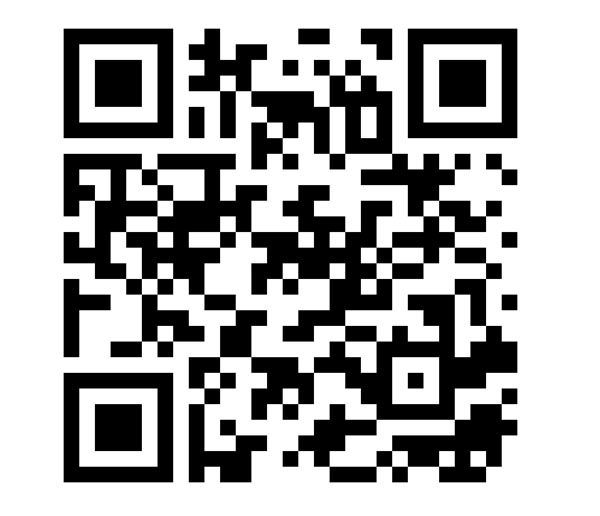
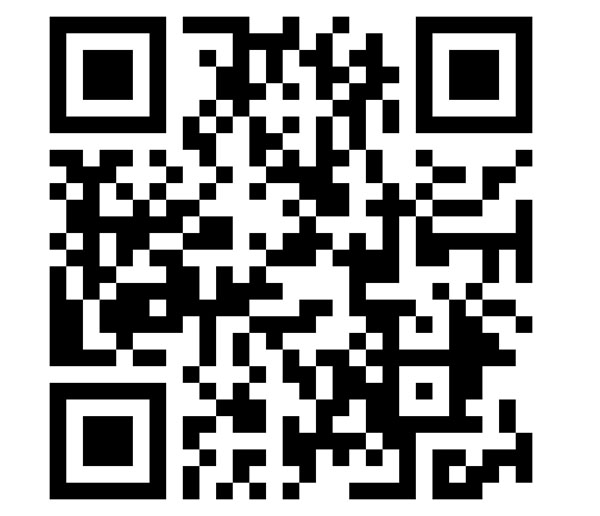
Add files via upload

diff --git a/index.html b/index.html
@@ -112,7 +112,7 @@ $(document).ready(function() {
      $('#num').click(function(){
          var a = $('#getVal').val();
          var b = $('#con_id').val();
-		 var link = "https://wa.me/"+b+""+a+"?text=Click%20the%20link%20to%20view%20AHAMMED%20THOTTUNGAL%20(%20Digital%20Business%20Card%20)%20https%3A%2F%2Fsaksoftlabs.github.io%2Fhi-q";
+		 var link = "https://wa.me/"+b+""+a+"?text=Click%20the%20link%20to%20view%20AHAMMED%20THOTTUNGAL%20(%20Digital%20Business%20Card%20)%20https%3A%2F%2Fsaksoftlabs.github.io%2Fhi-q-ahammad/";
          $('#num').attr('href',link);
          console.log(link);
      })
